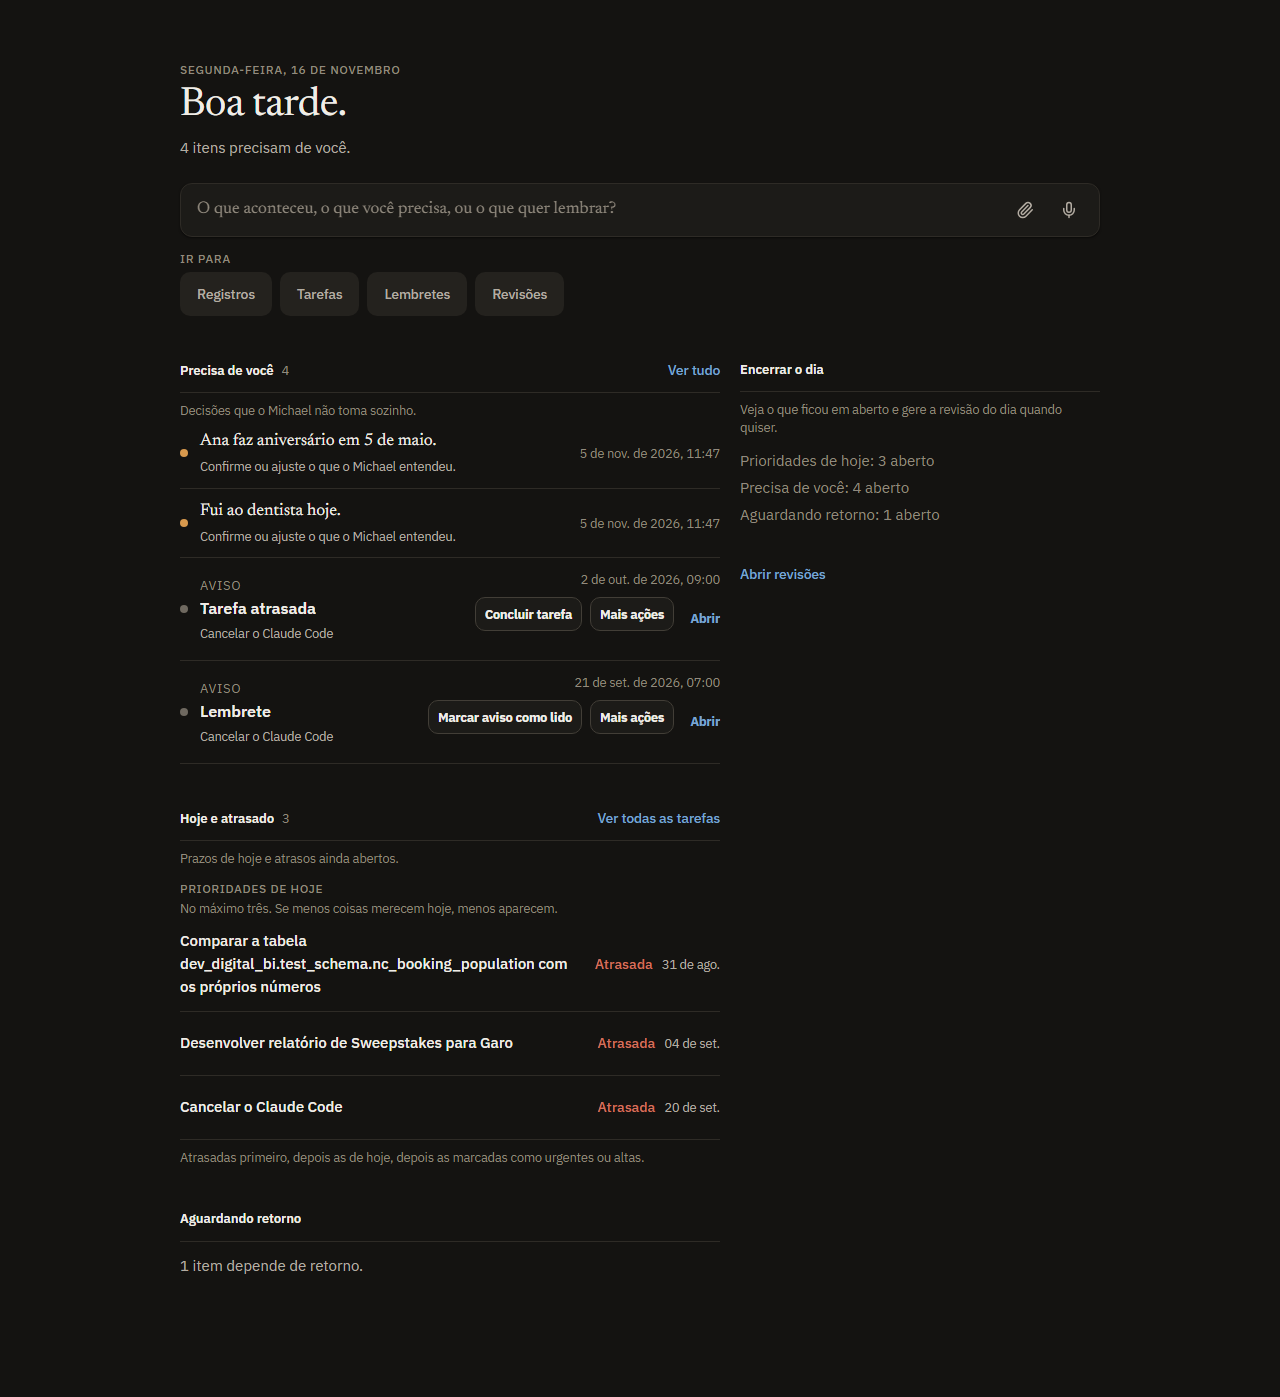
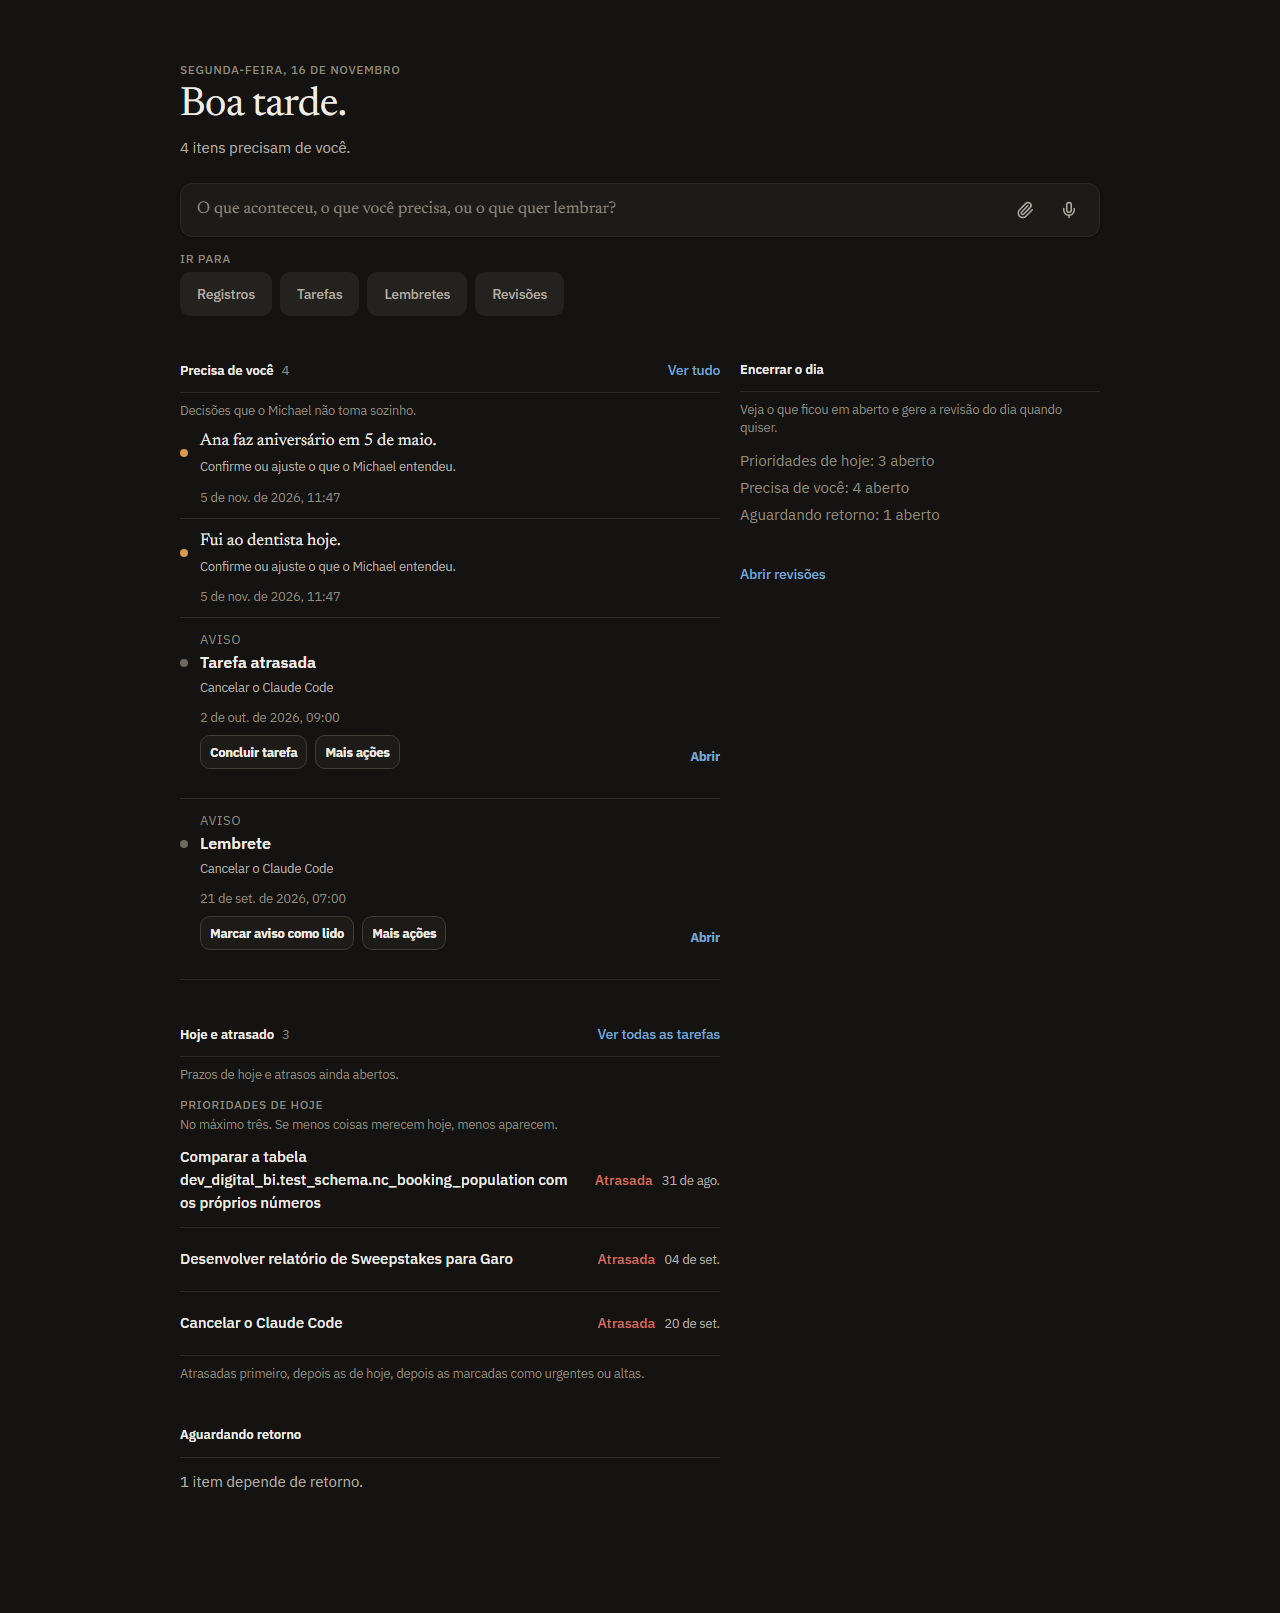
Editorial calmo: Hoje rows stack by container width, and only titles break
layout-contracts caught the new row grid overriding the 700px container
rule: a long context line starved the title to a 0px column in a narrow
panel. The row now stacks at the same container width the shared row
does, and word-breaking is granted to titles rather than to the page.

diff --git a/src/app/operations.css b/src/app/operations.css
@@ -1045,7 +1045,10 @@ a.entry-outcome-title:focus-visible{outline:3px solid var(--focus-ring);outline-
  * Scoped to `.home-dashboard` so the shared `.list-row` keeps its card shape on
  * the surfaces that have not been through this pass yet.
  */
-.home-dashboard{overflow-wrap:anywhere}
+/* Breaking is granted to the TITLES, not to the page: `anywhere` also lowers an
+   element's minimum width to nothing, and on a container that let an `auto`
+   grid track collapse its title to a column 0px wide (layout-contracts). */
+.home-dashboard .list-row-main strong,.home-dashboard .home-task strong,.home-dashboard .home-question{overflow-wrap:anywhere;max-width:100%}
 .home-dashboard .today-hero .eyebrow{margin-bottom:var(--space-2)}
 .home-dashboard .home-status{margin-top:var(--space-2)}
 .home-dashboard .today-capture{margin-top:var(--space-6)}
@@ -1089,11 +1092,15 @@ a.entry-outcome-title:focus-visible{outline:3px solid var(--focus-ring);outline-
 .home-dashboard .priority-reason[data-reason="overdue"]{background:none;padding:0;color:var(--tone-risk-fg)}
 .home-dashboard .home-agenda-time{font:var(--type-caption);font-variant-numeric:tabular-nums}
 
-@media(max-width:600px){
+/* The same 700px container threshold `.list-row` already stacks at: below it
+   the context drops under the title instead of taking the title's column. A
+   media query would be wrong here — the main column is 540px wide on a 1280px
+   screen. */
+@container (max-width: 700px){
   .home-dashboard .list-row{grid-template-columns:auto minmax(0,1fr)}
   .home-dashboard .list-row>.list-meta{grid-column:2;width:auto}
-  .home-dashboard .home-task{align-items:flex-start;gap:var(--space-1)}
 }
+@media(max-width:600px){.home-dashboard .home-task{align-items:flex-start;gap:var(--space-1)}}
 @media(max-width:899px){.home-section-hint{display:none}}
 
 /*
@@ -1118,7 +1125,7 @@ a.entry-outcome-title:focus-visible{outline:3px solid var(--focus-ring);outline-
 .home-dashboard .notice-attention-row .notification-row-actions{flex:none;order:1}
 .home-dashboard .notice-attention-row .notice-open-control{order:2;margin-left:auto}
 .home-dashboard .notice-attention-row .notice-open-outcome{order:3}
-@media(min-width:601px){
+@container (min-width: 701px){
   .home-dashboard .notice-attention-row .list-meta{justify-content:flex-end;max-width:calc(var(--space-16) * 5)}
   .home-dashboard .notice-attention-row .list-meta>span{text-align:right}
   .home-dashboard .notice-attention-row .notice-open-control{margin-left:0}

diff --git a/docs/reports/editorial-calmo/HOJE.md b/docs/reports/editorial-calmo/HOJE.md
@@ -32,7 +32,9 @@ Measured in the same run:
 | --- | --- | --- |
 | Horizontal overflow, with `dev_digital_bi.test_schema.nc_booking_population` in a title | 0px | 0px |
 | Interactive targets under 44px | 0 | 4 — the notice verbs, 34px, unchanged by this slice |
-| Page height | 1,857px | 1,397px |
+| Page height | 1,857px | 1,613px |
+
+`e2e/layout-contracts.spec.ts` (static fixtures through the real stylesheets, desktop and Pixel 7): 120 passed. It caught one regression while this slice was being written — the new row grid overrode the 700px container rule that stacks a row's context under its title, and a long context starved the title to 0px in a narrow column. The row now stacks at the same container width.
 
 ## Not verified
 
